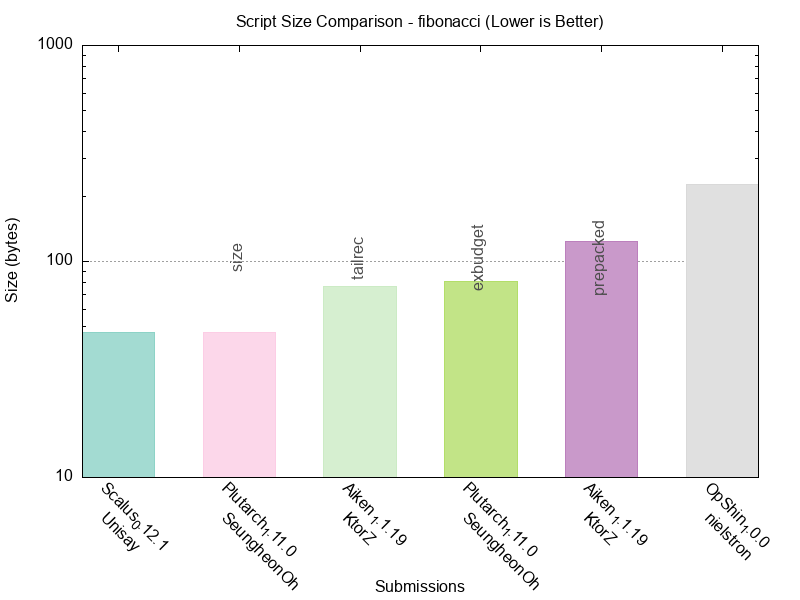
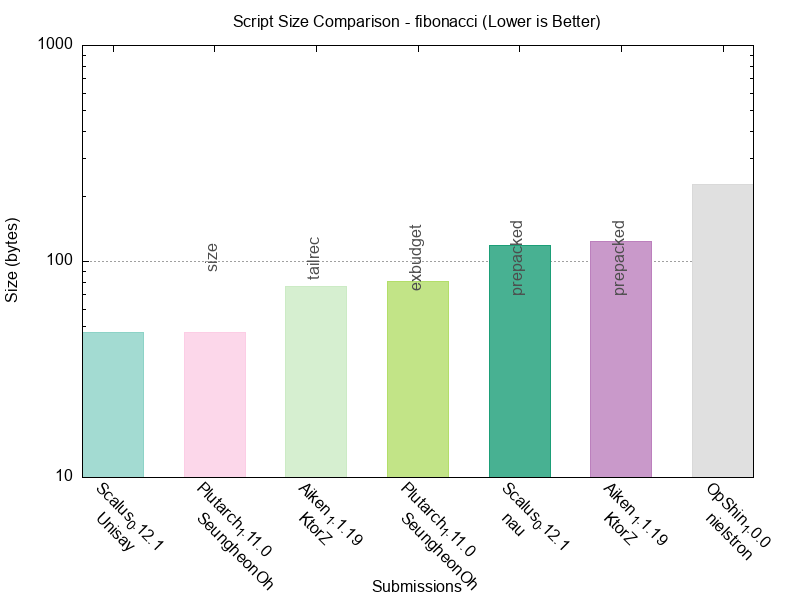
Add Scalus prepacked Fibonacci submission by nau
## Submission Details
- Scenario: fibonacci
- Compiler: Scalus 0.12.1
- Contributor: Alexander Nemish (@nau) from Lantr.io
- Implementation: Prepacked O(1) lookup with pre-computed values
- Source: https://github.com/Unisay/scalus-cape-submissions (1a5de41)

## Implementation Highlights
- Pre-computed Fibonacci numbers stored in ByteString
- O(1) constant-time lookup performance
- Pre-computes values for fib(0) through fib(25)
- Each Fibonacci number encoded as 3 bytes in big-endian format
- Optimized with Scalus inlining and case-constr transformations

## Verification Results
- All 11 tests passed
- metrics.json conforms to schema
- metadata.json conforms to schema

## Files Added
- submissions/fibonacci/Scalus_0.12.1_nau_prepacked/fibonacci.uplc
- submissions/fibonacci/Scalus_0.12.1_nau_prepacked/metadata.json
- submissions/fibonacci/Scalus_0.12.1_nau_prepacked/metrics.json
- submissions/fibonacci/Scalus_0.12.1_nau_prepacked/README.md
- submissions/fibonacci/Scalus_0.12.1_nau_prepacked/source/FibonacciPrepacked.scala

## Report Updates
- Updated HTML reports to include new submission
- Updated performance charts with new data points

diff --git a/report/index.html b/report/index.html
@@ -232,7 +232,7 @@
     </div>
 
     <div class="timestamp">
-        Generated on: 2025-10-20 13:42:57 CEST
+        Generated on: 2025-10-21 22:14:27 CEST
     </div>
     
     <!-- Benchmark Summary Table -->
@@ -479,7 +479,7 @@
                     </div>
                     <div class="count">
                         
-                            (6 submissions)
+                            (7 submissions)
                         
                     </div>
                 </div>
@@ -609,6 +609,28 @@
                                 </td>
                                 <td class="numeric script-value">47</td>
                                 <td class="numeric term-value">41</td>
+                            </tr>
+                            
+                            <tr data-cpu="17845279" data-memory="31792" data-script="118" data-term="28">
+                                <td>Scalus</td>
+                                <td>0.12.1</td>
+                                <td>prepacked</td>
+                                <td>Alexander Nemish</td>
+                                <td>2025-10-21</td>
+                                <td class="numeric">
+                                    <span class="tooltip">
+                                        <span class="cpu-value">17.85M</span>
+                                        <span class="tooltiptext">17845279</span>
+                                    </span>
+                                </td>
+                                <td class="numeric">
+                                    <span class="tooltip">
+                                        <span class="memory-value">31.79K</span>
+                                        <span class="tooltiptext">31792</span>
+                                    </span>
+                                </td>
+                                <td class="numeric script-value">118</td>
+                                <td class="numeric term-value">28</td>
                             </tr>
                             
                             <tr data-cpu="175016233630" data-memory="641939062" data-script="47" data-term="41">

diff --git a/report/benchmarks/fibonacci.html b/report/benchmarks/fibonacci.html
@@ -175,7 +175,7 @@
     </div>
 
     <div class="timestamp">
-        Generated on: 2025-10-20 13:42:43 CEST
+        Generated on: 2025-10-21 22:14:14 CEST
     </div>
     
     <div class="benchmark-section">
@@ -219,6 +219,19 @@
                 </tr>
             </thead>
             <tbody>
+                <tr>
+                    <td>2025-10-21T20:12:40Z</td>
+                    <td>Scalus</td>
+                    <td>0.12.1</td>
+                    <td>prepacked</td>
+                    <td>Alexander Nemish</td>
+                    <td class="numeric">17845279</td>
+                    <td class="numeric">31792</td>
+                    <td class="numeric">118</td>
+                    <td class="numeric">28</td>
+                    <td><a href="https://github.com/IntersectMBO/UPLC-CAPE/blob/main/submissions/fibonacci/Scalus_0.12.1_nau_prepacked/source/README.md" target="_blank" rel="noopener">📁</a></td>
+                    <td><a href="https://github.com/IntersectMBO/UPLC-CAPE/blob/main/submissions/fibonacci/Scalus_0.12.1_nau_prepacked/fibonacci.uplc" target="_blank" rel="noopener">🔗</a></td>
+                </tr>
                 <tr>
                     <td>2025-10-18T12:29:30Z</td>
                     <td>Aiken</td>

diff --git a/report/benchmarks/factorial.html b/report/benchmarks/factorial.html
@@ -175,7 +175,7 @@
     </div>
 
     <div class="timestamp">
-        Generated on: 2025-10-20 13:42:34 CEST
+        Generated on: 2025-10-21 22:14:03 CEST
     </div>
     
     <div class="benchmark-section">

diff --git a/report/benchmarks/factorial_naive_recursion.html b/report/benchmarks/factorial_naive_recursion.html
@@ -175,7 +175,7 @@
     </div>
 
     <div class="timestamp">
-        Generated on: 2025-10-20 13:42:39 CEST
+        Generated on: 2025-10-21 22:14:08 CEST
     </div>
     
     <div class="benchmark-section">

diff --git a/report/benchmarks/fibonacci_naive_recursion.html b/report/benchmarks/fibonacci_naive_recursion.html
@@ -175,7 +175,7 @@
     </div>
 
     <div class="timestamp">
-        Generated on: 2025-10-20 13:42:49 CEST
+        Generated on: 2025-10-21 22:14:19 CEST
     </div>
     
     <div class="benchmark-section">

diff --git a/report/benchmarks/two-party-escrow.html b/report/benchmarks/two-party-escrow.html
@@ -175,7 +175,7 @@
     </div>
 
     <div class="timestamp">
-        Generated on: 2025-10-20 13:42:54 CEST
+        Generated on: 2025-10-21 22:14:24 CEST
     </div>
     
     <div class="benchmark-section">

diff --git a/submissions/fibonacci/Scalus_0.12.1_nau_prepacked/README.md b/submissions/fibonacci/Scalus_0.12.1_nau_prepacked/README.md
@@ -1,0 +1,36 @@
+# Benchmark Implementation Notes
+
+**Scenario**: `fibonacci`
+
+**Submission ID**: `Scalus_0.12.1_nau_prepacked`
+
+## Implementation Details
+
+- **Compiler**: `Scalus 0.12.1`
+- **Implementation Approach**: `prepacked`
+- **Compilation Flags**: `default`
+
+## Performance Results
+
+- See [metrics.json](metrics.json) for detailed performance measurements
+
+## Reproducibility
+
+- **Source Available**: true
+- **Source Repository**: <https://github.com/Unisay/scalus-cape-submissions>
+- **Source Path**: `src/fibonacci_prepacked/FibonacciPrepacked.scala`
+- **Build Instructions**: `sbt "runMain fibonacci_prepacked.compileFibonacciPrepacked"`
+
+## Notes
+
+This submission implements the Fibonacci scenario using a prepacked optimization approach. The implementation:
+
+- Uses pre-computed Fibonacci numbers stored in a ByteString
+- Provides O(1) constant-time lookup performance
+- Pre-computes values for fib(0) through fib(25)
+- Encodes each Fibonacci number as 3 bytes in big-endian format
+- Applies Scalus optimizations including inlining and case-constr transformations
+
+This approach trades program size for evaluation performance, resulting in constant-time execution regardless of the input value (within the pre-computed range).
+
+**Note**: The UPLC output uses Scalus bracket notation format, which differs from standard UPLC textual syntax.
